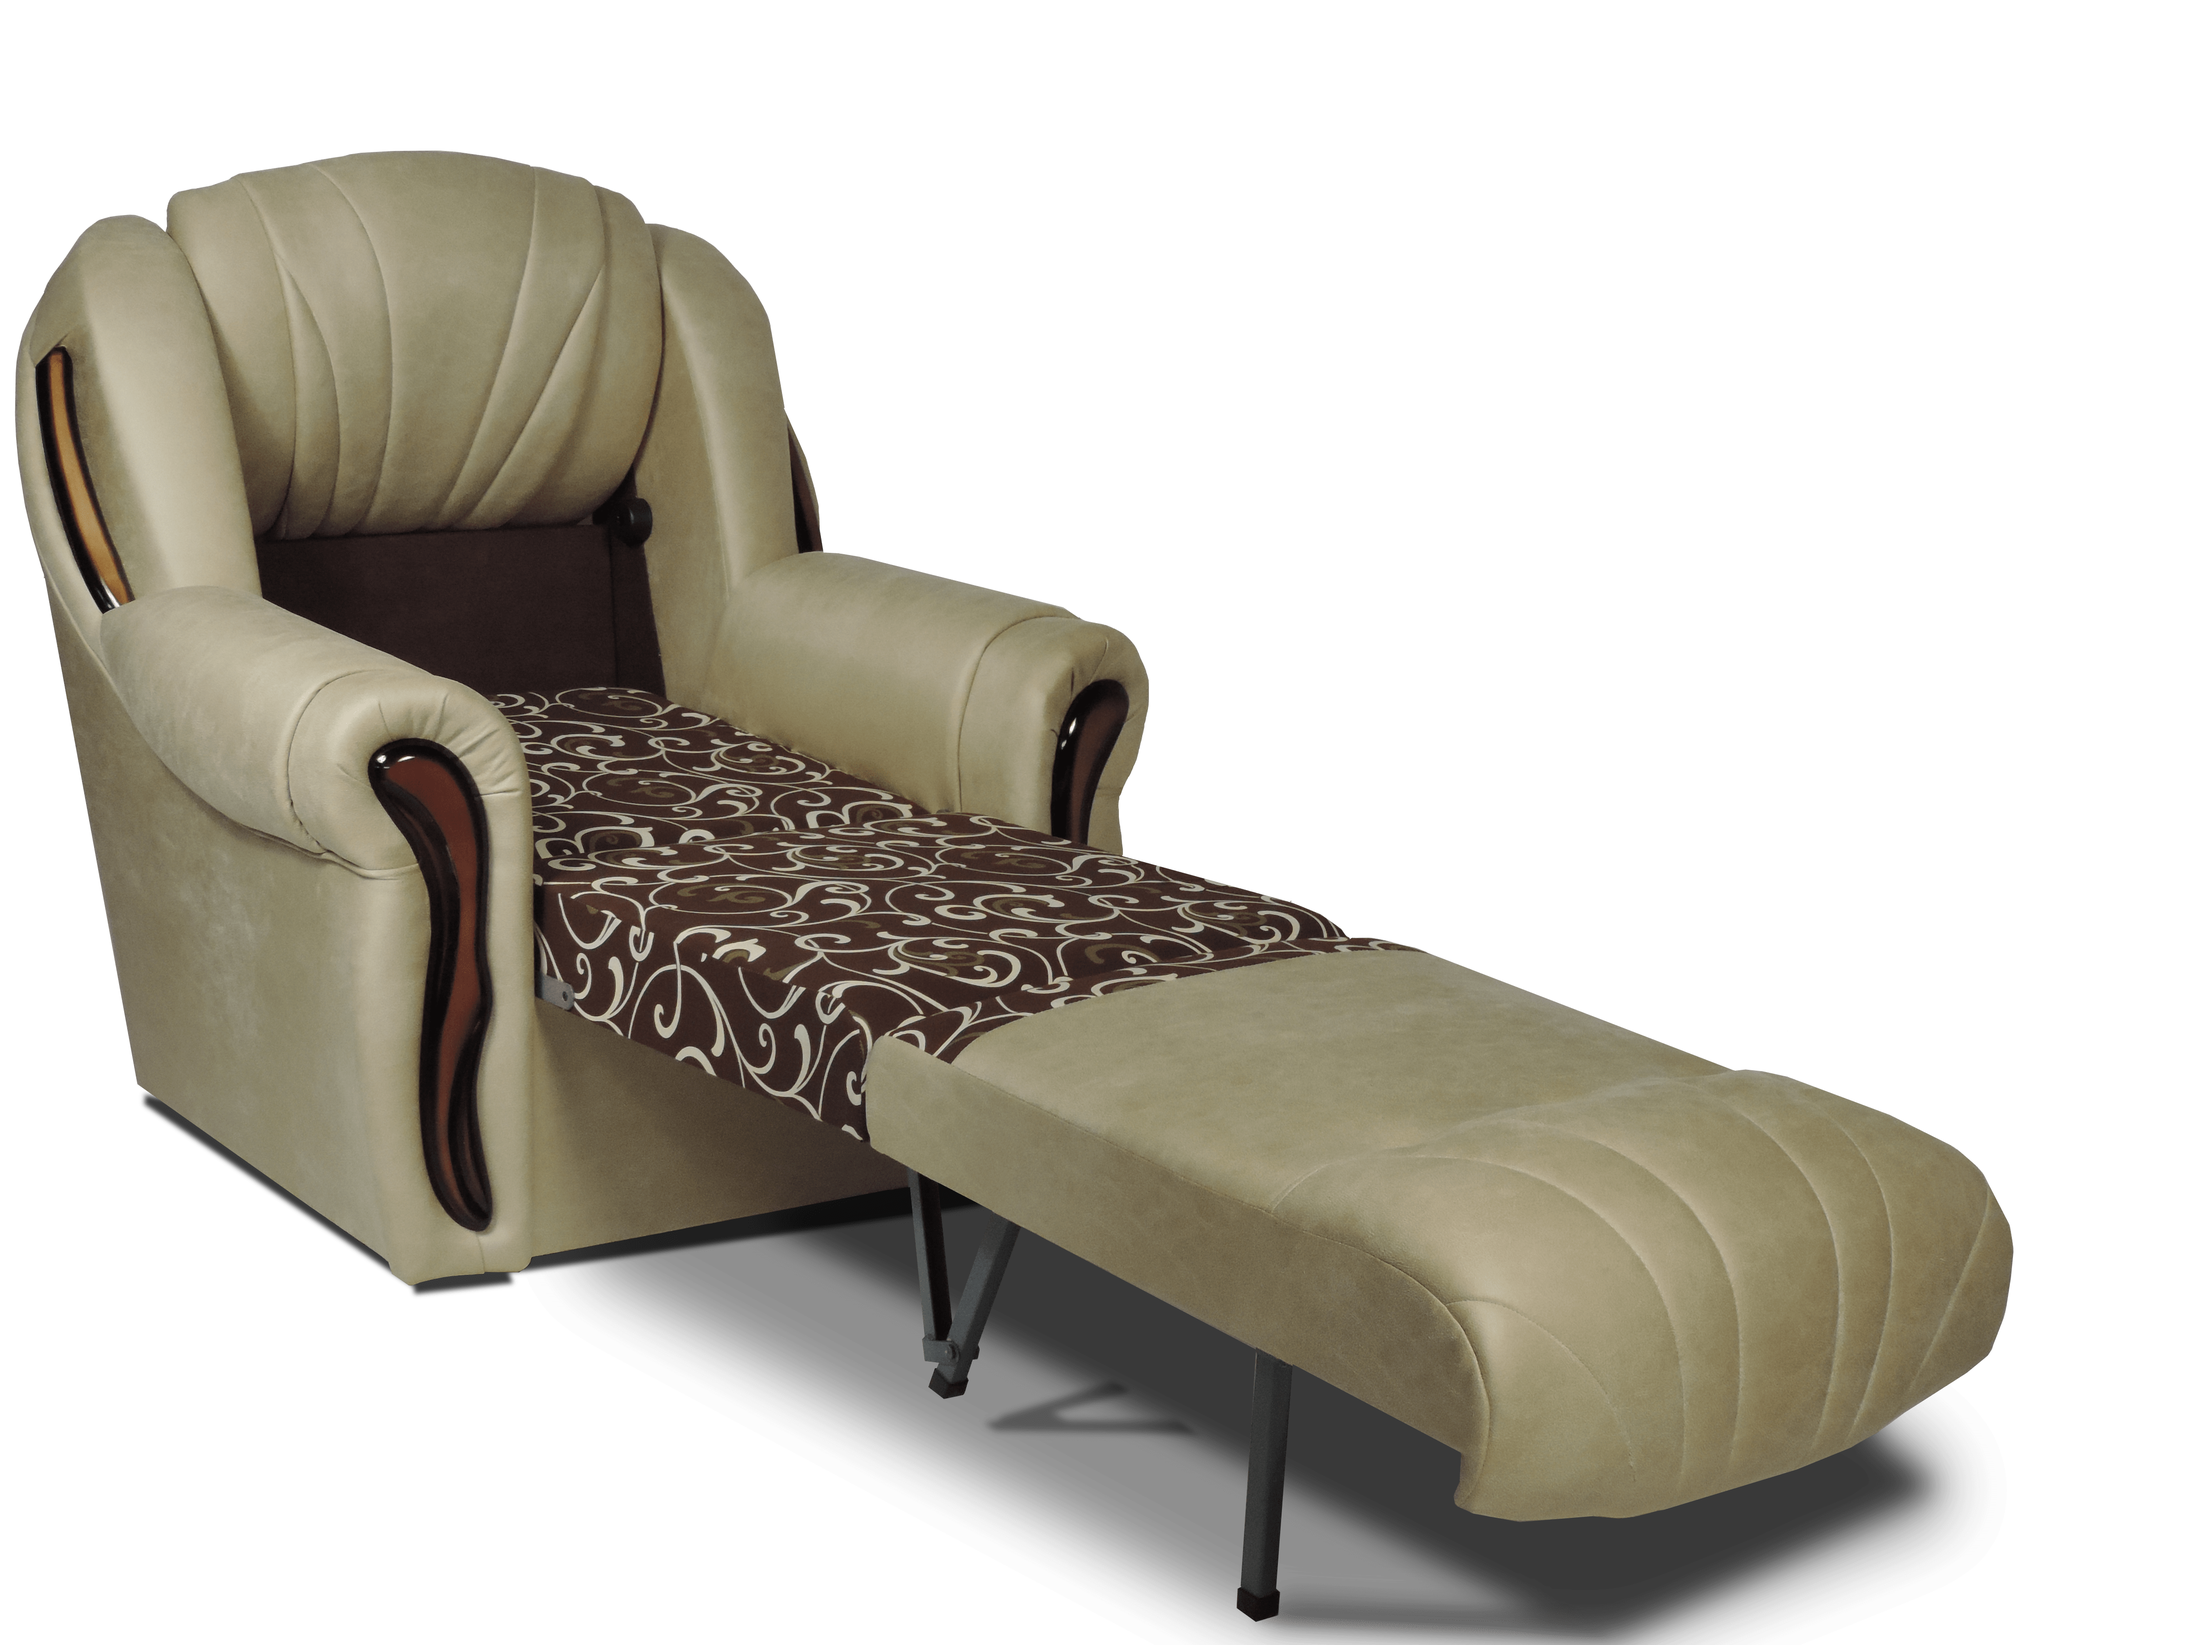
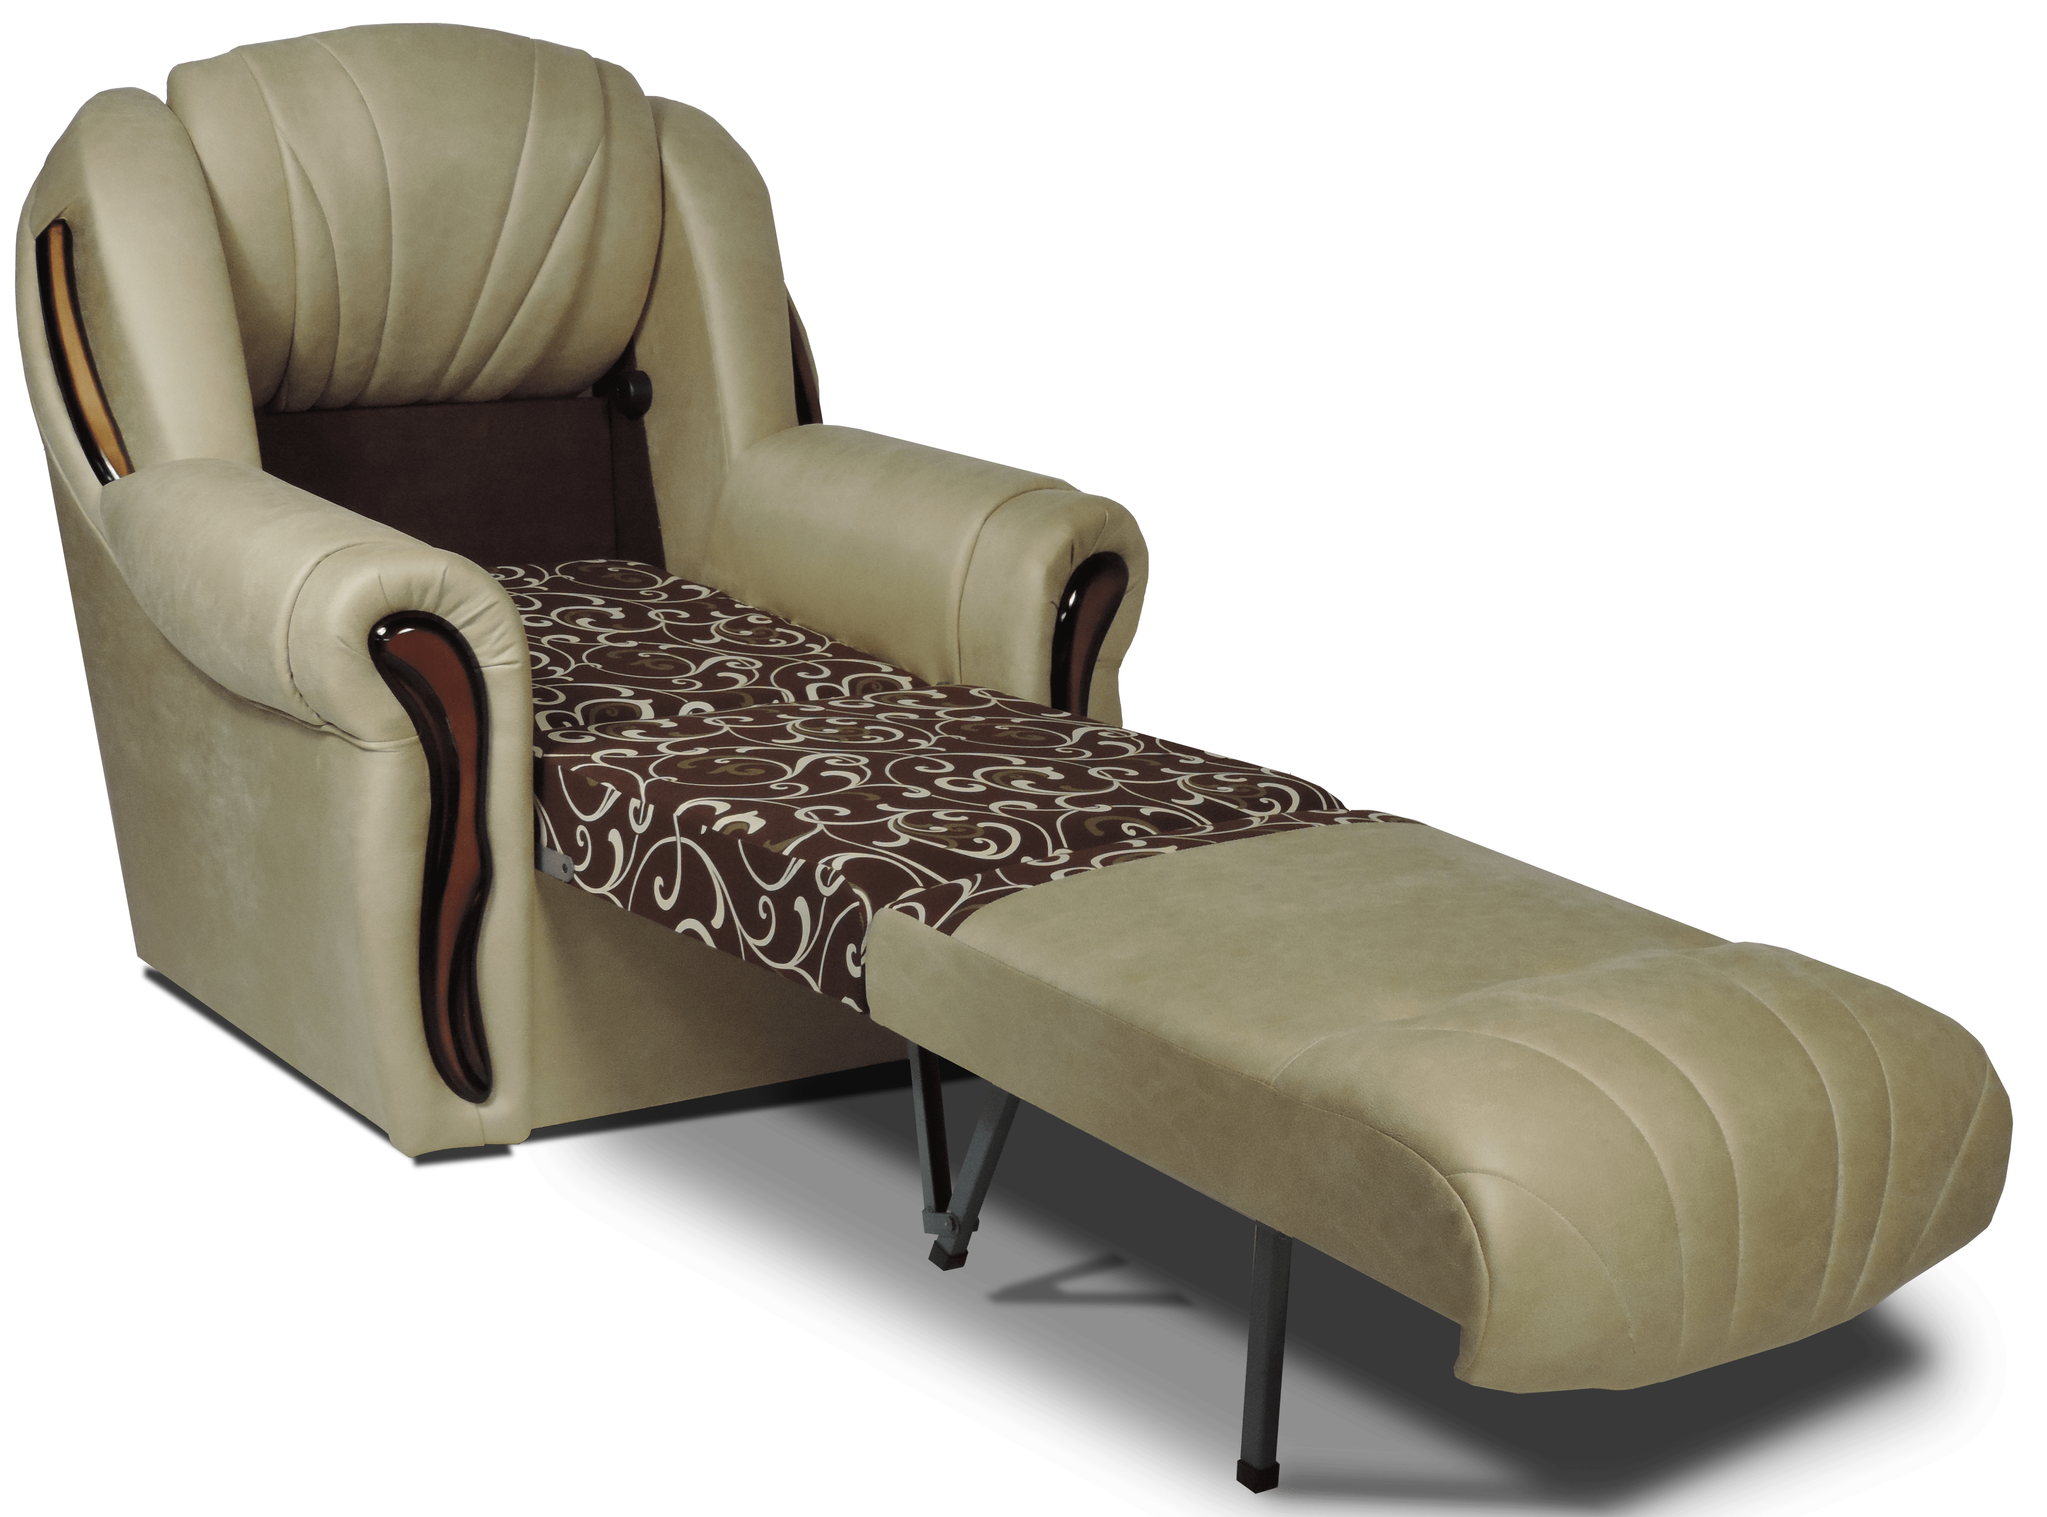
fix: replace images

diff --git a/wp-content/themes/mebli/pages/about-store.php b/wp-content/themes/mebli/pages/about-store.php
@@ -18,16 +18,16 @@
                     <div class="swiper-wrapper">
                         <!-- Slides -->
                         <div class="swiper-slide">
-                            <img src='<?php echo get_template_directory_uri() ?>/assets/images/baron-1.jpg' alt=''>
+                            <img src='<?php echo get_template_directory_uri() ?>/assets/images/baron-1.png' alt=''>
                         </div>
                         <div class="swiper-slide">
-                            <img src='<?php echo get_template_directory_uri() ?>/assets/images/lord-1.jpg' alt=''>
+                            <img src='<?php echo get_template_directory_uri() ?>/assets/images/lord-1.png' alt=''>
                         </div>
                         <div class="swiper-slide">
-                            <img src='<?php echo get_template_directory_uri() ?>/assets/images/domino-1.jpg' alt=''>
+                            <img src='<?php echo get_template_directory_uri() ?>/assets/images/domino-1.png' alt=''>
                         </div>
                         <div class="swiper-slide">
-                            <img src='<?php echo get_template_directory_uri() ?>/assets/images/armchair-1.jpg' alt=''>
+                            <img src='<?php echo get_template_directory_uri() ?>/assets/images/armchair-1.png' alt=''>
                         </div>
                     </div>
                 </div>
@@ -36,16 +36,16 @@
                     <div class="swiper-wrapper">
                         <!-- Slides -->
                         <div class="swiper-slide">
-                            <img src='<?php echo get_template_directory_uri() ?>/assets/images/baron-1.jpg' alt=''>
+                            <img src='<?php echo get_template_directory_uri() ?>/assets/images/baron-1.png' alt=''>
                         </div>
                         <div class="swiper-slide">
-                            <img src='<?php echo get_template_directory_uri() ?>/assets/images/lord-1.jpg' alt=''>
+                            <img src='<?php echo get_template_directory_uri() ?>/assets/images/lord-1.png' alt=''>
                         </div>
                         <div class="swiper-slide">
-                            <img src='<?php echo get_template_directory_uri() ?>/assets/images/domino-1.jpg' alt=''>
+                            <img src='<?php echo get_template_directory_uri() ?>/assets/images/domino-1.png' alt=''>
                         </div>
                         <div class="swiper-slide">
-                            <img src='<?php echo get_template_directory_uri() ?>/assets/images/armchair-1.jpg' alt=''>
+                            <img src='<?php echo get_template_directory_uri() ?>/assets/images/armchair-1.png' alt=''>
                         </div>
                     </div>
                 </div>
